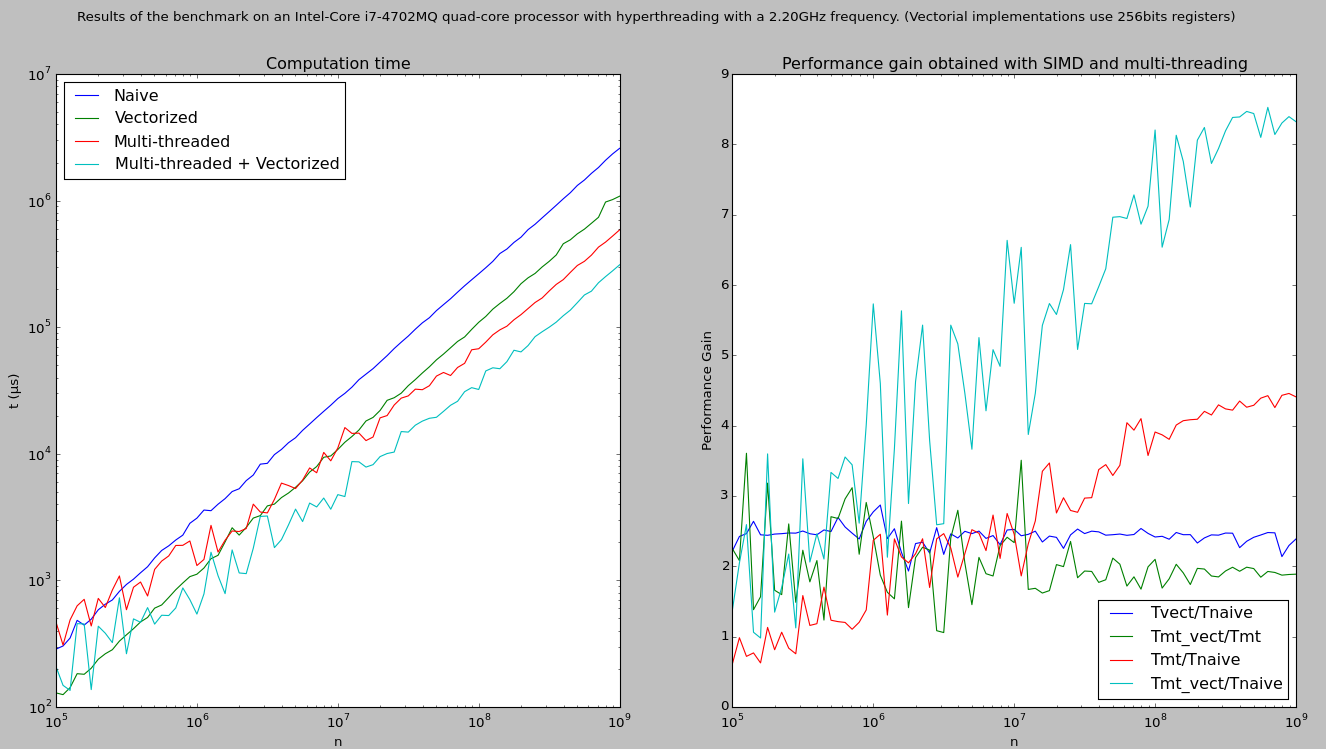
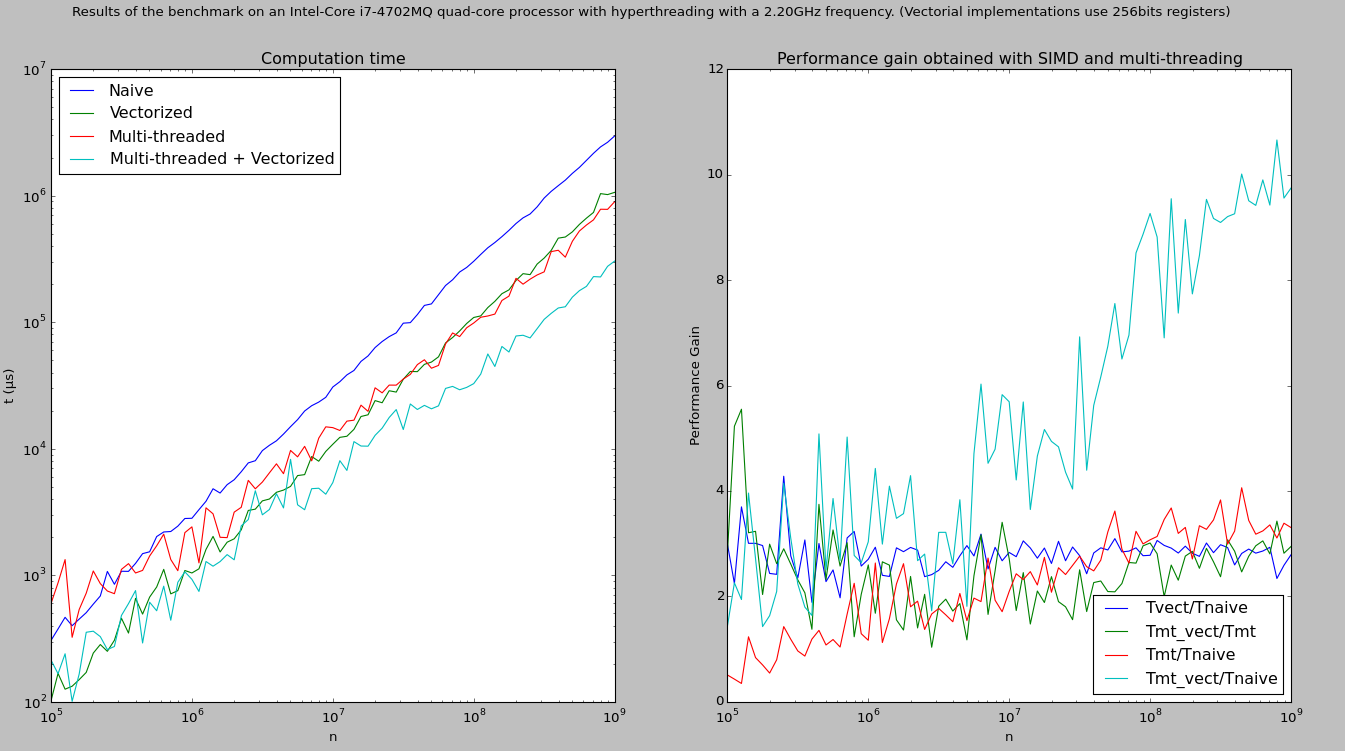
Updated results now that we improved them

Changed region(s): [[0.0, 0.0614, 0.9894, 0.9826], [0.0618, 0.0, 0.9276, 0.0307], [0.7421, 0.3378, 0.773, 0.4299]]

diff --git a/README.md b/README.md
@@ -4,8 +4,8 @@ multi-threaded computing versus a naïve, mono-threaded implementation.
 
 ## Compiling instructions ##
 
-To compile the C program with GCC, use make (in order to avoid compiling each
-file manually). The command to run is `make`, simply `make`
+To compile the C program with GCC, use GNU make (in order to avoid compiling
+each file manually). The command to run is `make`, simply `make`
 
 This will create a binary named `simdbmk` using GCC as a C compiler. All the
 generated object files and the `simdbmk` binary will end up in a `./gcc_build`
@@ -37,7 +37,7 @@ containing the indexes where `val` was found in the array.
 
 * Generate a random array of integers containing values between `a` and `b`
 * Run the naive `find` on it
-* Run it's vectorial counterpart and measure the performance gain.
+* Run its vectorial counterpart and measure the performance gain.
 * Run the non vectorial parallel version of `find` and compare it against the
   naive one
 * Run the vectorized, parallel version of `find` and compare it against the
@@ -103,19 +103,17 @@ performance response:
 size of the input array.")
 
 As can be expected, the running time is proportional to the size of the input
-array. The performance ratios seem to converge around 2 for the vectorial
-implementation, 4 for the multithreaded version (which was to be expected since
-we have 4 cores. We can note that hyperthreading doesn't have a huge influence
-here). Finally with the multithreaded vectorial approach, we get a `x8.5`
+array. The performance ratios seem to converge around 3 for the vectorial
+implementation, and a little bit more than 3 for the multithreaded version.
+Finally with the multithreaded vectorial approach, we get a `x10`
 performance gain, which is quite nice.
 
 When the sought element is not in the array though, the performance factor for
 the multithreaded vectorial approach reaches 12. This can be explained by the
 fact that the gain from going vectorial is lost when an element is found. In
 addition to that the `realloc()` sometimes involves a copy of the whole result
-array in memory. Using linked lists instead of standard C arrays would probably
-have been a better choice, but the memory occupied by the result would have
-then been multiplied by 3.
+array in memory (`realloc()` is actually very well managed by the Linux kernel
+but still, it does take some time to run :) ).
 
 ## Questions about different aspects of the program
 
